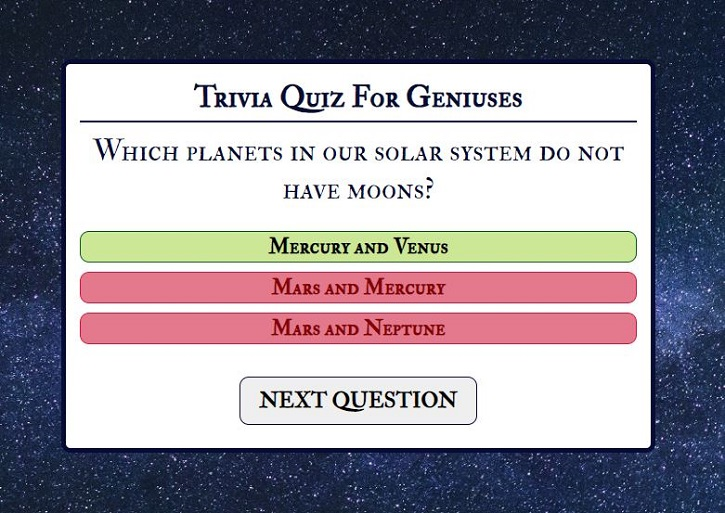
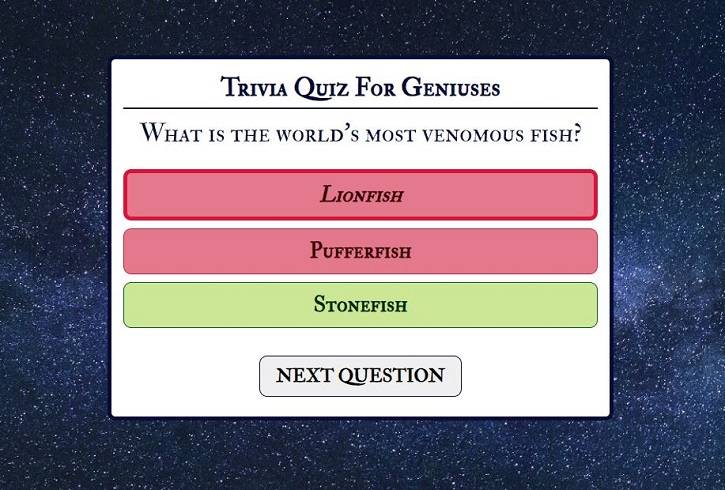
Add further comments in script.js and credits for code in readme.md

diff --git a/assets/js/script.js b/assets/js/script.js
@@ -1,6 +1,7 @@
 /** This JS script was created with the help from 
  * the walk through Love Maths project 
- * and using https://www.sitepoint.com/simple-javascript-quiz/
+ * and using https://www.sitepoint.com/simple-javascript-quiz/ 
+ * and https://www.codingnepalweb.com/quiz-app-with-timer-javascript/
  */
 
 const startButton = document.getElementById('play-btn');
@@ -17,7 +18,7 @@ let TimeOut = 4000;
 startButton.addEventListener('click', startQuiz);
 nextButton.addEventListener('click', () => {
     currentQuestionIndex++;
-    nextQuestion();
+    nextQuestion(); 
 });
 
 function hideRules() {
@@ -27,19 +28,17 @@ function hideRules() {
 // Starts the quiz
 function startQuiz() {
     startButton.classList.add('hide'); // hides play button
-
     mixQuestions = questions.sort(() => Math.random() - 0.5), // this mixes questions
         currentQuestionIndex = 0,
-        questionBox.classList.remove('hide'),
-        nextQuestion();
-    mixQuestions.splice(5, 12); // This selects 5 random questions each time the user plays the quiz. used code from w3schools.com
+        questionBox.classList.remove('hide'), // questions will appear 
+        nextQuestion(); // calling next question
+    mixQuestions.splice(5, 13); // This selects 5 random questions each time the user plays the quiz. Used code from w3schools.com
 }
 
 function nextQuestion() {
-    clearConditions();
+    clearConditions(); // resets everything back to a default setting, i.e. no correct/incorrect background, next question button disappears
     showQuestion(mixQuestions[currentQuestionIndex]);
 }
-
 
 function showQuestion(question) {
     questionSection.innerHTML = question.question;
@@ -67,11 +66,11 @@ function clearConditions() {
     }
 }
 
-// Listens for selected option
+// Listens for a selected option
 function selectOption(e) {
     const clickedButton = e.target;
-    const correct = clickedButton.dataset.correct;
-    setCorrectnessClass(document.body, correct);
+    const correct = clickedButton.dataset.correct; 
+    setCorrectnessClass(document.body, correct); 
     document.getElementById(e.target.id).classList.add('selection'); // highlights users clicked choice
     Array.from(optionButton.children).forEach(button => {
         setCorrectnessClass(button, button.dataset.correct);
@@ -81,7 +80,6 @@ function selectOption(e) {
     } else {
         startButton.classList.add('hide');
         TimeOut = setTimeout(showEndScreen, 4000); // delays a move to an end screen
-
     }
 }
 
@@ -125,7 +123,7 @@ let questions = [
             {
                 text: 'Stonefish',
                 correct: true
-            } 
+            }
         ],
     },
     {
@@ -137,7 +135,7 @@ let questions = [
             {
                 text: '12',
                 correct: true
-            }, 
+            },
             {
                 text: 20,
                 correct: false
@@ -157,7 +155,7 @@ let questions = [
             {
                 text: 'Pinky',
                 correct: true
-            } 
+            }
         ],
     },
     {
@@ -169,7 +167,7 @@ let questions = [
             {
                 text: 'Turtle',
                 correct: true
-            }, 
+            },
             {
                 text: 'Snail',
                 correct: false
@@ -197,7 +195,7 @@ let questions = [
         options: [{
                 text: 'Mercury and Venus',
                 correct: true
-            }, 
+            },
             {
                 text: 'Mars and Mercury',
                 correct: false
@@ -213,7 +211,7 @@ let questions = [
         options: [{
                 text: 'Sperm whale',
                 correct: true
-            }, 
+            },
             {
                 text: 'Snapping Shrimp',
                 correct: false
@@ -237,7 +235,7 @@ let questions = [
             {
                 text: 'Denmark',
                 correct: true
-            } 
+            }
 
         ]
     },
@@ -250,7 +248,7 @@ let questions = [
             {
                 text: 'Saskatchewan, Canada',
                 correct: true
-            }, 
+            },
             {
                 text: 'Lourinhã, Portugal',
                 correct: false
@@ -270,7 +268,7 @@ let questions = [
             {
                 text: 'Lake Baikal',
                 correct: true
-            }   
+            }
         ]
     },
     {
@@ -286,7 +284,7 @@ let questions = [
             {
                 text: '1%',
                 correct: true
-            } 
+            }
         ]
     },
     {
@@ -301,6 +299,22 @@ let questions = [
             },
             {
                 text: '45 seconds',
+                correct: false
+            }
+        ]
+    },
+    {
+        question: "What is correct name given to the dot on top of the letter i?",
+        options: [{
+                text: 'Interpunct',
+                correct: false
+            },
+            {
+                text: 'Tittle ',
+                correct: true
+            },
+            {
+                text: 'Diacritic',
                 correct: false
             }
         ]

diff --git a/README.md b/README.md
@@ -2,7 +2,7 @@
 
 You can see the live site [here](https://amartins87.github.io/genius-trivia-quiz/).
 
-The purpose of Genius Trivia Quiz is to test user's general knowledge through a variety of advanced questions. THe quiz is suitable for all those who would like to learn new nteresting facts. 
+The purpose of Genius Trivia Quiz is to test user's general knowledge through a variety of advanced questions. THe quiz is suitable for all those who would like to learn new interesting facts. 
 
 ![Mock up image](assets/wireframes/Mock_up_MS2.JPG)
 
@@ -90,9 +90,9 @@ I checked that the chosen colors and fonts are easy to read. The page has passed
 
 ## **BUGS**
 -   Function hideRules() in script.js, line 23 is marked as unused variable in jshint report, however this function is called in index.html.
+-   Jshint warning: Expected an assignment or function call and instead saw an expression >> it applies to nextQuestion() where I am calling for a new question.
 
 ## **UNFIXED BUGS**
-
 -   
 
 ## **DEPLOYMENT**
@@ -112,7 +112,8 @@ The site was deployed to GitHub pages. The steps to deploy are as follows:
     - The icons in the rules container and at the end of the game were taken from [Font Awesome](https://fontawesome.com/)
 
 - **CODE**
-   
+    - As mentioned in comments in my script.js, I have used the walk through Love Maths project as my anchor point, and [Site Point](https://www.sitepoint.com/simple-javascript-quiz/) to guide me through the project.
+    - I took an inspiration of the look for my quiz from [CodingNepal - JS](https://youtu.be/WUBhpSRS_fk)/[CodingNepal - HTML/CSS](https://www.codingnepalweb.com/quiz-app-with-timer-javascript/);
 
 - **MEDIA**
 
